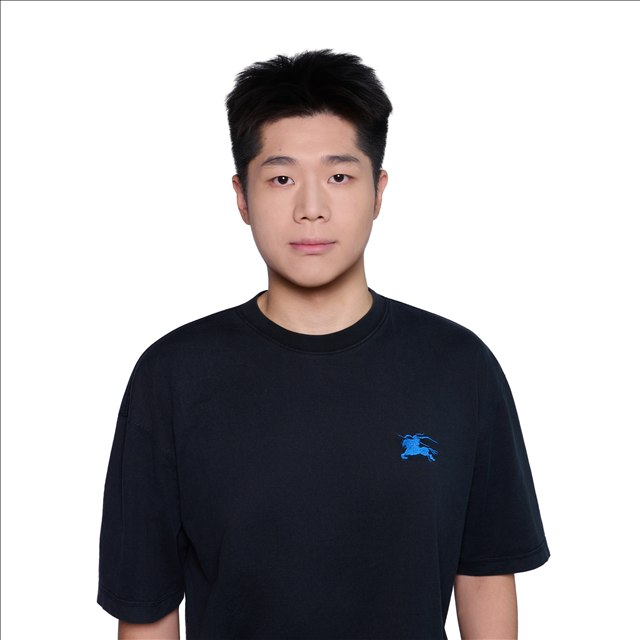
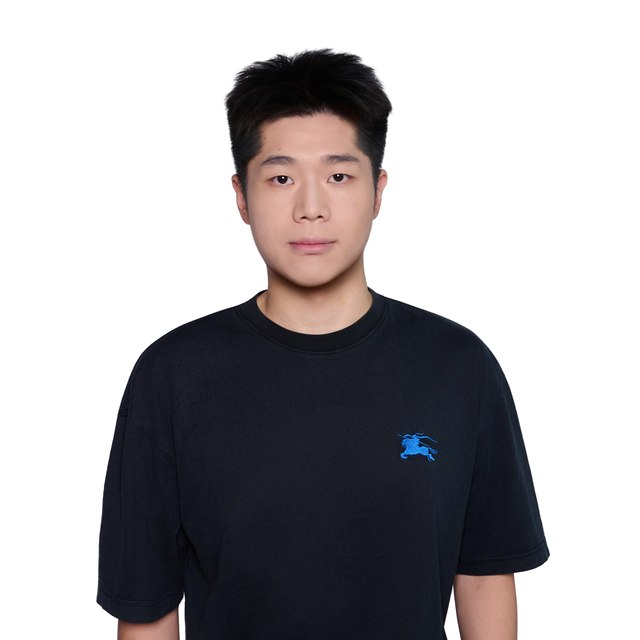
Remove portrait edge artifacts from image resizing

diff --git a/index.html b/index.html
@@ -26,7 +26,7 @@
           </ul>
         </nav>
       </div>
-      <img class="portrait" src="./assets/academic-portrait.jpg"
+      <img class="portrait" src="./assets/academic-portrait.jpg?v=ea369ecb"
            alt="Portrait of Xuan Zhou" width="640" height="640">
     </header>
 
